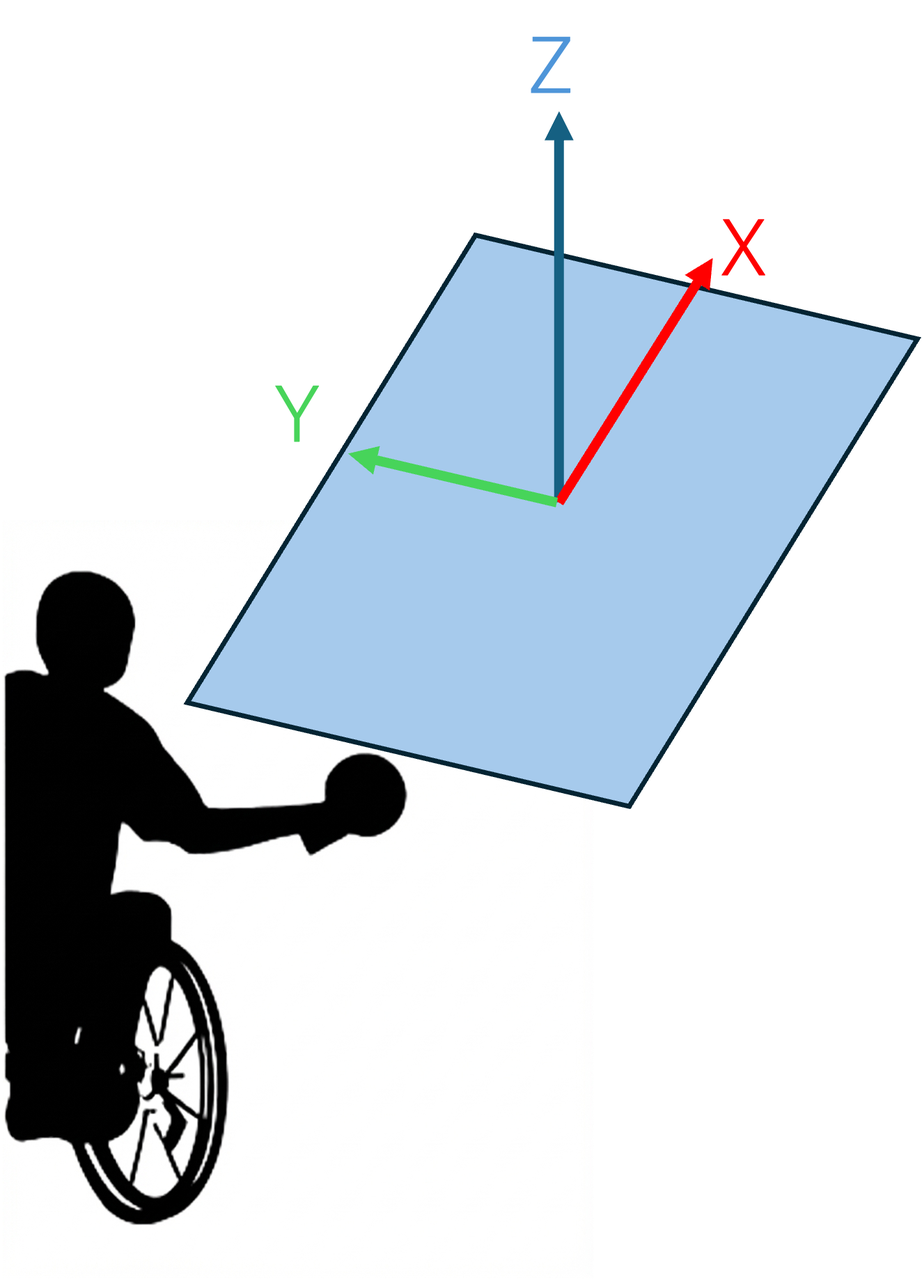
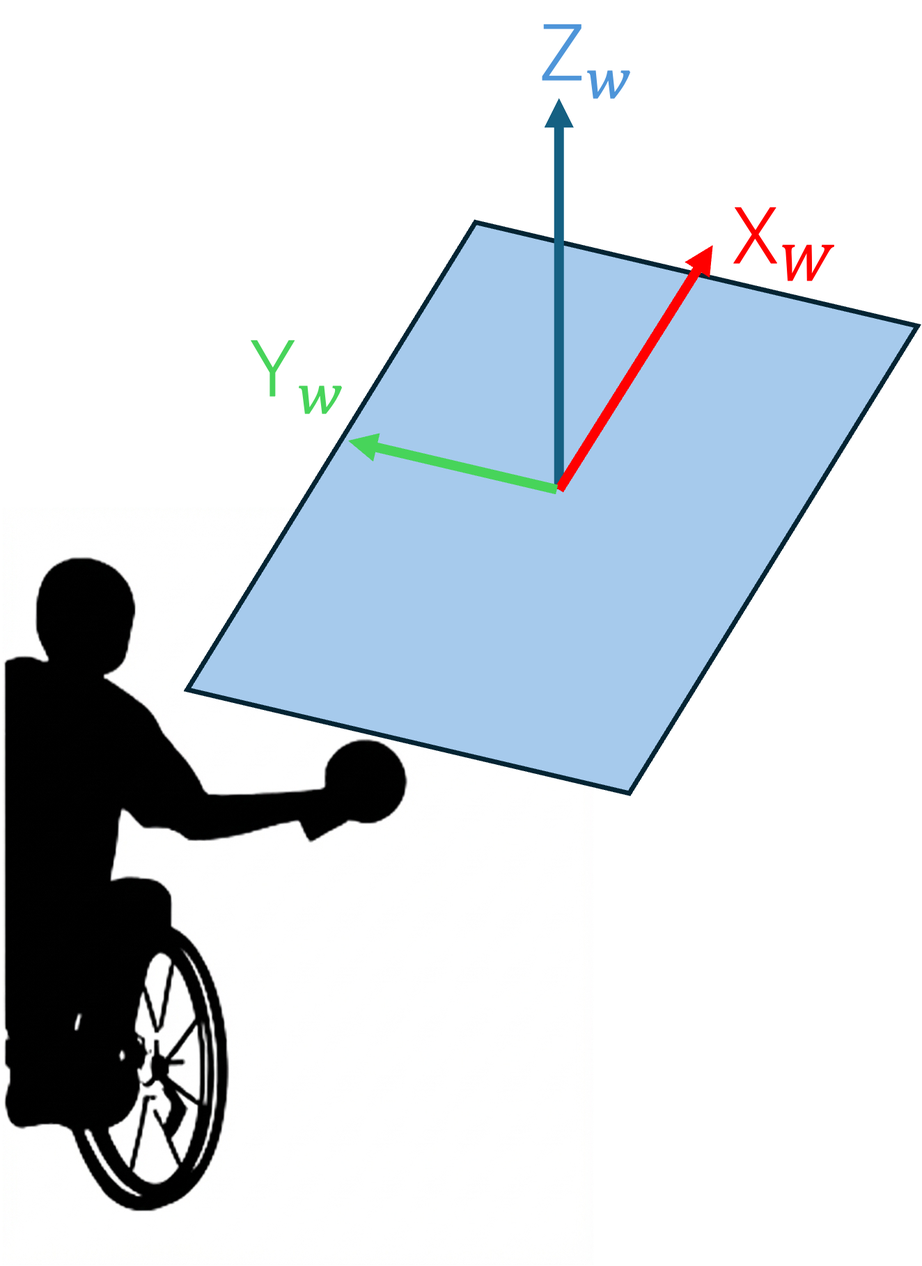
第3章手前

diff --git a/sections/chap2.tex b/sections/chap2.tex
@@ -15,13 +15,13 @@
 
 本章では，車椅子卓球選手の競技中の動作の測定と解析のアプローチについて述べる．
 
-\refsec{sec:approach}では，本研究のアプローチについて述べる．
+\refsec{sec:approach}では，決定論的モデルに基づいた本研究の理論的枠組みについて述べる．
 
-\refsec{sec:pmethod_model}では，本研究の実験概要について述べる．
+\refsec{sec:variable_definition}では，解析手法を適用するにあたり必要となる座標系および各変数の定義について述べる．
 
-\refsec{sec:analysis_method1}では，画像解析を用いた解析手法について述べる．
+\refsec{sec:analysis_process}では，画像解析および筋活動計測を用いた具体的な解析アルゴリズムについて述べる．
 
-\refsec{sec:analysis_method2}では，筋活動による解析手法について具体的に述べる．
+\refsec{sec:experiment}では，提案した手法を適用して実施した計測実験の概要について述べる．
 
 最後に\refsec{sec:pmethod_conclusion}では，本章のまとめを述べる．
 
@@ -37,9 +37,24 @@
 
 以上より，本研究では単なる動作観察では捉えきれない，パフォーマンスに直結する筋活動の時系列的な特徴を抽出し，客観的かつ説明可能な評価を行う．
 
+本研究では，個人の身体機能差が著しい車椅子卓球選手において，打球の正確性を決定づける要因を解明することを目指す．そのための理論的枠組みとして，Chowら\citeen{chowUseDeterministicModels2011}がスポーツバイオメカニクス研究において推奨している決定論的モデルを採用する．
+
+決定論的モデルとは，パフォーマンスの結果から遡り，それを力学的・物理的に決定づけるバイオメカニクス的要因を階層構造として分解および整理する手法である．Chowらは，パフォーマンス指標を恣意的に選択するのではなく，運動の結果とそれを構成する要因との間の理論的な結びつきを明確にすることの重要性を説いている．
+
+本研究においては，このモデルに基づき打球動作を以下の階層構造で捉える．モデルの最上位には，パフォーマンスの評価指標として，打球の正確性（打球の着弾点の目標からの誤差）を設定する．この正確性を物理的に決定づける直接的な要因は，インパクトにおけるラケットの終端姿勢（位置，速度，角度などの10変数）である．さらに，このラケット挙動を生成する要因として上肢や体幹の関節運動が存在し，それらの運動を駆動する根本的な要因として筋活動が最下層に位置づけられる．
+
+この階層構造に基づくデータを収集するため，図\ref{fig:exp_setup}に示す実験環境を構築した．本環境では，実際のラリー中における選手の身体動作（モーションキャプチャで計測）と筋活動（表面筋電図で計測），およびその結果としての打球の正確性（着弾位置計測）の同期計測を行う．ここで得られたデータを用い，以下の段階的なプロセスで解析を進める．
+
+第一段階として，最上位の打球精度と直下のラケット終端姿勢の関係性を解析する．具体的には，ラケット挙動を表現する10個の変数を入力とし，打球精度を分類または回帰する機械学習モデル（k-近傍法，サポートベクターマシン，ランダムフォレスト）を構築する．構築したモデルに対して Permutation Feature Importance（PFI）を適用することで，ラケットの挙動において精度の良し悪しを決定づける重要な変数を特定する．
+
+第二段階として，特定された重要なラケット変数を目的変数とし，その下層にある関節運動との関係性を解析する．ここでは，関節角度の時系列データを扱うために LSTM（Long Short Term Memory）や，各関節の特徴量を用いた回帰分析等を行い，ラケットの重要変数を生成するために支配的な関節運動を明らかにする．
+
+最終段階として，特定された関節運動と最下層の筋活動との関連を調査する．ここでは定性的な評価を含め，主要な動作局面における筋活動レベル（平均振幅等）を確認し，動作の駆動源としての筋の役割を考察する．
+
+以上により，本研究では決定論的モデルに基づく論理的な因果関係の枠組みの中で，結果から原因へと階層を掘り下げることで，パフォーマンスに直結する身体的要因を客観的かつ説明可能な形で特定する．
 \begin{figure}[t]
   \centering
-  \includegraphics[keepaspectratio, width=0.8\linewidth]{chap2/exp_setup.pdf}
+  \includegraphics[keepaspectratio, width=0.8\linewidth]{chap2/exp_setup.png}
   \caption{計測システムの構成}
   \label{fig:exp_setup}
 \end{figure}
@@ -47,96 +62,160 @@
 
 \clearpage
 
-\section{画像解析を用いた解析手法}
-\label{sec:analysis_method1}
-本節では，録画された動画像データからボールの3次元挙動を復元し，打球の正確性を定量的に評価するとともに，その傾向を可視化する一連のプロセスについて述べる．解析の全体フローは，1）手作業によるイベント区間の特定（アノテーション），2）ステレオ計測による3次元座標群の抽出，3）ターゲット精度の算出，4）精度の空間分布を可視化するショットマップの作成，の4段階から構成される．
+\section{解析対象変数の定義と計測手法}
+\label{sec:variable_definition}
+本節では，前節で述べた決定論的モデルに基づき、本解析で使用する変数の定義およびその計測手法について述べる．
+
+\subsection{座標系の定義}
+\label{subsec:coord_system}
+解析の基準となる座標系として，卓球台に固定された世界座標系と，ラケットに固定された局所座標系を定義した（図\ref{fig:spatial_coordinates}）．
+世界座標系は，卓球台の中心を原点 $O_W$ とし，実験参加者から見て進行方向（ネット方向）を $X_W$ 軸，左方向を $Y_W$ 軸，鉛直上向きを $Z_W$ 軸と定義した．
+また，ラケット局所座標系は，ラケットの重心位置を原点 $O_R$ とし，ラケット面の長軸方向（ラケット先端の方向）を $X_R$ 軸，面法線方向を $Y_R$ 軸，ラケット面の短軸方向を $Z_R$ 軸と定義した．
+
+\begin{figure}[t]
+  \centering
+  \includegraphics[keepaspectratio, width=1.0\linewidth]{chap2/spatial_coordinates.png}
+  \caption{世界座標の設定}
+  \label{fig:spatial_coordinates}
+\end{figure}
+
+
+\subsection{ラケット終端姿勢変数の定義}
+\label{subsec:racket_vars}
+打球精度を直接決定づける要因であるラケットの終端姿勢を定量的かつ多角的に評価するため，以下の10個の変数を定義した．
+これらは全てボールがラケットに接触した瞬間の値を用いる．
+
+\begin{enumerate}\item
+  \textbf{ラケット位置 ($Pos_X, Pos_Y, Pos_Z$)}：世界座標系におけるラケット重心の3次元座標．
+  \item \textbf{ラケット移動速度 ($Vel_{scalar}$)}：インパクト直前におけるラケット重心の移動速度の大きさ（スカラー量）．
+  \item \textbf{打ち出し角 ($Launch\_Ang_{Vert}, Launch\_Ang_{Horz}$)}：打球後のボール軌道の初期ベクトルがなす角度．水平面に対する角度を縦打ち出し角，進行方向に対する左右の角度を横打ち出し角とする．
+  \item \textbf{ラケット面角度 ($Face_{Vert}, Face_{Horz}$)}：ラケット面の法線ベクトルがなす角度．垂直方向の傾きを被せ角（$Face_{Vert}$），水平方向の向きを面の左右角（$Face_{Horz}$）とする．
+  \item \textbf{インパクト位置誤差 ($Diff_{Long}, Diff_{Short}$)}：ラケット局所座標系における，ラケット重心から見たボール接触点のズレ．長軸方向の距離を $Diff_{Long}$，短軸方向の距離を $Diff_{Short}$ と定義する．これにより，重心近くで捉えられたかを評価する．
+\end{enumerate}
+
+\subsection{関節運動変数の定義}
+\label{subsec:joint_vars}
+ラケットの終端姿勢を生成する身体的要因として，上肢および体幹の関節角度を定義した．
+本研究では，車椅子卓球における打球動作への寄与が大きい以下の関節運動に着目する．
+
+\begin{itemize}
+ \item \textbf{肘関節}：屈曲・伸展および回旋の2自由度．
+ \item \textbf{肩関節 (Shoulder)}：屈曲・伸展，外転・内転，内旋・外旋の3自由度．
+ \item \textbf{体幹 (Trunk)}：胸郭と骨盤の間の相対角度として算出される，屈曲・伸展，側屈，回旋の3自由度．
+\end{itemize}
+
+\subsection{画像解析による計測とデータ算出}
+\label{subsec:measurement_process}
+上述した変数の算出および打球精度の評価を行うため，以下の手順で計測およびデータ処理を行った．
+解析の全体フローは，1）手作業によるイベント区間の特定（アノテーション），2）ステレオ計測による3次元座標群の抽出，3）打球精度（着弾点の目標までの距離）の算出，4）精度の空間分布を可視化するショットマップの作成，の4段階から構成される．
 ボールの空間位置を特定するため，8台の高速度カメラを用いたステレオ計測法を適用した．
 
 \subsection{アノテーションと座標取得}
 \label{subsec:annotation}
 まず，各試行の録画データに対して手作業によるアノテーションを実施した．
 打球動作における重要局面であるラケットによるインパクトの瞬間（打点）および卓球台へのバウンドの瞬間（着弾点）に対応するフレーム番号を特定した．
-次に，特定された各フレームにおいて，左右のカメラ画像上のボール中心位置を目視にて特定し，その2次元画像座標 $(u, v)$ を記録した．
-これらの画像座標と，事前に実施したカメラキャリブレーションにより得られたカメラパラメータ（内部・外部パラメータ）を用いて，三角測量の原理に基づく3次元復元を行い，複数台のカメラによって撮影した画像から，対象空間におけるボールの3次元座標 $(x, y, z)$ を算出した．
 
+次に，特定された各フレームにおいて，左右のカメラ画像上のボール中心位置を目視にて特定し，その2次元画像座標 $(u, v)$ を記録した．
+これらの画像座標から3次元座標を算出するために，モーションキャプチャシステムの統合ソフトウェアであるQTM(Qualisys Track Manager)を用いてカメラキャリブレーションを実施した．
+QTMより出力された各カメラの内部パラメータ（焦点距離，主点座標，歪み係数）および外部パラメータ（世界座標系におけるカメラの位置・姿勢）を取得し，これらを基に世界座標系からカメラ座標系への変換を記述する回転行列および並進ベクトルを算出した．
+最後に，整備したこれらのパラメータを用いて三角測量の原理に基づく3次元復元を行い，複数台のカメラによって撮影した画像から，対象空間におけるボールの3次元座標 $(x, y, z)$ を算出した．
 
 
 \subsection{打球精度の定義と算出}
 \label{subsec:shotaccuracy}
-本研究における実験課題はクロス方向へのラリーであり，目標とする着弾点を卓球台の左端コーナー付近に設定した．
-打球の正確性を評価するため，着弾点の3次元座標を卓球台平面（$xy$平面）に投影し，目標の座標との平面距離を算出した．
 
-各試行 $i$ における着弾位置の水平座標を $(x_{land}^{(i)}, y_{land}^{(i)})$，目標とするターゲット位置の座標を $(x_{target}, y_{target})$ と定義する．
-このとき，打球の誤差距離（Error Distance）$D_{err}^{(i)}$ は，以下の式に示す $xy$ 平面上でのユークリッド距離として定義される．
+本研究では，打球位置の $x$ 座標が $-0.5\,\mathrm{m}$ 未満（卓球台の右側遠方）となる打球動作を1試行と定義する．
+実験課題はクロス方向へのラリーであり，対戦相手にとって返球が困難なコースとして，目標着弾点を卓球台の左端コーナー付近に設定した．
+
+打球の正確性を評価するため，着弾点の3次元座標を卓球台平面（$xy$平面）に投影し，目標の座標との平面距離を算出した．
+試行 $i$ における着弾位置の水平座標を $(x_{\mathrm{land}}^{i}, y_{\mathrm{land}}^{i})$，目標とするターゲット位置の座標を $(x_{\mathrm{target}}, y_{\mathrm{target}})$ と定義する．
+このとき，打球の誤差距離 $D_i$ は，以下の式に示す $xy$ 平面上でのユークリッド距離として定義される．
 
 \begin{equation}
-D_{err}^{(i)} = \sqrt{(x_{land}^{(i)} - x_{target})^2 + (y_{land}^{(i)} - y_{target})^2}
+D_i = \sqrt{(x_{\mathrm{land}}^{i} - x_{\mathrm{target}})^2 + (y_{\mathrm{land}}^{i} - y_{\mathrm{target}})^2}
 \end{equation}
 
-ここで，$D_{err}^{(i)}$ が $0$ に近いほど，目標に対して正確に着弾したことを意味し，値が大きいほどターゲットから逸脱した打球であることを示す．
-本解析では，この誤差距離 $D_{err}$ の値を，後述するショットマップの色付けおよび機械学習モデルの出力変数（回帰ターゲット）として使用した．
+ここで，$D_i$ が $0$ に近いほど，目標に対して正確に着弾したことを意味し，値が大きいほどターゲットから逸脱した打球であることを示す．
+本解析では，この誤差距離 $D$ の値を，後述するショットマップの色付けおよび機械学習モデルの出力変数として使用した．
 
-\subsection{ショットマップによる空間的傾向の可視化}
-\label{subsec:shotmap}
-算出された打球誤差と，打球位置の空間的な関係性を明らかにするため，詳細なショットマップを作成した．従来のショットマップは着弾位置をプロットするのが一般的であるが，本研究ではどの位置でボールを捉えた時に，高精度な打球が可能となるかという身体制御と結果の因果関係を検証するため，以下の手法を用いた．
-\begin{enumerate}\item
-  \textbf{プロット位置：} グラフ上の点の位置は，各試行におけるインパクト時のボール位置（打点）の3次元座標 $(x_{hit}, y_{hit}, z_{hit})$ に対応する．
-  \item \textbf{カラーマッピング：} 各点の色情報は，前項で算出した着弾誤差距離 $D_{err}$ に基づいて決定される．
+
+\subsection{打球精度およびショットマップの定義}
+\label{subsec:accuracy_def}
+本研究では，ラケットによるボールインパクトから卓球台への着弾までの一連の挙動を1試行と定義する．
+なお，本実験における具体的な解析対象試行の抽出条件については，\refsec{subsec:exp_task}にて詳細を述べる．
+
+打球の正確性を評価する指標として，各試行 $i$ における誤差距離 $D_i$ を定義する．
+試行 $i$ における卓球台への着弾位置の水平座標を $(x_{\mathrm{land}}^{i}, y_{\mathrm{land}}^{i})$，目標とするターゲット位置の座標を $(x_{\mathrm{target}}, y_{\mathrm{target}})$ としたとき，$D_i$ は以下のユークリッド距離で表される．
+\begin{equation}
+D_i = \sqrt{(x_{\mathrm{land}}^{i} - x_{\mathrm{target}})^2 + (y_{\mathrm{land}}^{i} - y_{\mathrm{target}})^2}
+\end{equation}
+ここで，$D_i$ が $0$ に近いほど，目標に対して正確に着弾したことを意味する．
+
+また，打点位置とこの打球精度 $D_i$ との関係性を空間的に表現したものを「ショットマップ」と定義する．ショットマップの構成要素は以下の通りである．
+
+\begin{enumerate}
+  \item \textbf{プロット位置：} グラフ上の点の位置は，各試行におけるインパクト時のボール位置の3次元座標 $(x_{\mathrm{hit}}, y_{\mathrm{hit}}, z_{\mathrm{hit}})$ に対応する．
+  \item \textbf{カラーマッピング：} 各点の色情報は，当該試行の着弾誤差距離 $D_i$ に基づいて決定される（寒色系：高精度，暖色系：低精度）．
 \end{enumerate}
-具体的には，誤差距離 $D_{err}$ が小さい（精度が高い）試行を青色や緑色などの寒色系で，誤差が大きい（精度が低い）試行を赤色などの暖色系で表現し，その中間を連続的なカラーグラデーションで表示した．これにより，実験参加者が空間上のどの領域（例：身体の近く，あるいは高い打点など）でインパクトした際に，ターゲットに近い有効打を放つことができたかを直感的に把握することを可能とした．
-
 
 \clearpage
 
-\section{筋活動の解析手法}
-\label{sec:analysis_method2}
-本節では，計測された生体信号から，打球精度に影響を与える要因を抽出するための時系列解析手法について述べる．
+\section{提案手法}
+\label{sec:analysis_process}
+本節では，前節で定義された変数を算出し，要因を特定するための具体的な計算処理および解析アルゴリズムについて述べる．
 
-\subsection{データの前処理}
-\label{subsec:preprocess}
-取得した表面筋電図（EMG）信号に対し，以下の信号処理を適用した．まず，生体信号に含まれるハムノイズおよび低周波のモーションアーチファクトを除去するため，40$\sim$400Hzのバンドパスフィルタを適用した．次に，筋活動の振幅レベルを評価するために整流処理を行い，その後，平滑化処理を施して包絡線を算出した ． 最後に，機械学習モデルへの入力として各チャンネル間のスケールを統一するため，各試行のデータに対して正規化処理を行い ，これを解析用データとした．
+\subsection{画像解析による3次元座標および精度の算出}
+\label{subsec:image_analysis}
+ボールおよび身体の運動を定量化するため，ステレオカメラを用いた3次元復元手法を適用した．
 
-\subsection{データセットの構築}
-\label{subsec:dataset}
-解析対象とする時間区間は，ボールインパクトの瞬間（$t=0$）を基準とし，スイング動作の開始前からインパクトまでの準備局面を含む区間とした．具体的には，インパクト前$1.0$秒から$0.0$秒までの時系列データを抽出した．
-入力データ $X$ は，前処理を行った多チャンネルのEMG時系列で0田を採用した．出力データ $Y$ には，前節で算出した打球誤差 $E_i$ （目標からの距離）を教師ラベルを付与した．
-これにより，筋活動パターンから打球の正確性を予測する回帰モデルの構築を行った．
+まず，各試行の録画データに対して手作業によるアノテーションを実施し，打点および着弾点に対応するフレームと，左右のカメラ画像上のボール中心位置 $(u, v)$ を特定した．
+3次元座標の算出には，モーションキャプチャシステム用ソフトウェアQTM (Qualisys Track Manager) から取得したカメラパラメータを用いた．
+具体的には，キャリブレーションにより得られた各カメラの内部パラメータおよび外部パラメータから回転行列を作成し，世界座標系とカメラ座標系の変換を定義した．これらのパラメータと画像座標を用いて三角測量の原理に基づく3次元復元を行い，対象空間におけるボールの3次元座標 $(x, y, z)$ を算出した．
 
-\subsection{LSTMモデルによる要因解析}
-打球動作のような一連の時系列データにおいては，ある瞬間の値だけでなく，時間的な変化のパターンが重要である．そこで本研究では，時系列データの学習に適し，長期的な依存関係を学習可能な再帰型ニューラルネットワーク（RNN）の一種である Long Short-Term Memory (LSTM) を採用した．
+算出された着弾座標およびターゲット座標から，\refsec{subsec:accuracy_def}で定義した式に基づき打球誤差 $D_i$ を算出した．
+さらに，算出された打点位置および誤差 $D_i$ を用いて前述の定義に従いショットマップを作成し，精度の空間的傾向を可視化した．
 
-構築したモデルは，入力層，LSTM層，全結合層，出力層から構成される．本モデルを用いて打球精度の予測学習を行い，高い予測精度が得られることを確認した上で，モデルの解釈性手法である Permutation Feature Importance (PFI) を適用した ． PFIは，入力特徴量の一部をランダムにシャッフルした際の予測精度の低下量から，その特徴量の重要度を定量化する手法である ．本解析では，これにより打球の正確性を決定づける重要な筋肉の部位およびその活動タイミング（時間帯）を定量的に算出し，パフォーマンスに寄与する身体制御メカニズムの特定を試みた．
+\subsection{筋活動データの信号処理}
+\label{subsec:signal_process}
+筋活動データに対しては，以下の前処理を行う．
+生体信号に含まれるノイズを除去するため，40$\sim$400Hzのバンドパスフィルタを適用し，続いて全波整流および平滑化処理（包絡線検波）を行う．
+最後に，個人や試行による振幅差を補正するため，各試行または最大随意収縮時の値を用いた正規化処理を行い，解析用データセットを作成する．
+
+\subsection{決定論的モデルに基づく要因特定プロセス}
+\label{subsec:ml_analysis}
+算出されたデータを用い，以下の手順で階層的に要因を特定する．
+
+\subsubsection{ラケット終端姿勢の重要変数特定}
+打球精度（$D$）を直接決定づけるラケット変数を特定するため，機械学習モデルを用いた回帰分析を行う．
+入力には2.3節で定義した10個のラケット変数を，出力には打球誤差 $D$ を用い，k-近傍法（KNN），サポートベクターマシン（SVM），ランダムフォレスト等のアルゴリズムによりモデルを構築する．
+学習済みモデルに対して Permutation Feature Importance (PFI) を適用し，予測精度への寄与度が大きい変数を重要変数として抽出する．
+
+\subsubsection{関節運動および筋活動の解析}
+Step 1で特定された重要なラケット変数を生成する要因として，関節運動の解析を行う．
+関節角度は時系列データであるため，Long Short Term Memory (LSTM) などの時系列モデルや，特徴量抽出による回帰分析を用い，ラケット挙動との関連性をモデル化する．
+最終的に，特定された関節運動に関与する筋群の活動レベルを定性的に評価し，動作メカニズムの考察を行う．
+
 \clearpage
 
 
 \section{実験概要}
-\label{sec:pmethod_model}
-本節では，提案手法の構築および検証のために実施した計測実験の詳細について述べる．
-本実験では，車椅子卓球選手の実際のラリー動作を対象に，身体動作，筋活動，およびボールの軌道情報を同期計測した．
-以下，\ref{subsec:exp_person}項では実験参加者の属性について，\ref{subsec:exp_env}項では使用した計測機器と環境について，\ref{subsec:exp_method}項では具体的な実験課題と手順についてそれぞれ記述する．
+\label{sec:experiment}
+本節では，前節で述べた解析手法を適用し，実際の車椅子卓球選手の打球動作を評価するために実施した計測実験の詳細について述べる．
 
 \subsection{実験参加者}
 \label{subsec:exp_person}
-本研究の実験参加者は，パラリンピック車椅子卓球競技クラス4に所属する男子選手1名（年齢：26歳，利き手：右）とした．この選手は2026年1月8日時点でクラス4の世界ランキング1位の選手である．
+本研究の実験参加者は，パラリンピック車椅子卓球競技クラス4に所属する男子選手1名（年齢：26歳，利き手：右）とした．
+この選手は2026年1月8日時点で同クラスの世界ランキング1位である．
+参加者は二分脊椎（第3腰髄レベル：L3）に起因する機能障害を有しており，座位バランスはある程度保持されるものの，下肢による身体固定や重心移動に制限がある．
+なお，本実験は東京大学倫理審査委員会の承認（承認番号：E2025ALS171）を得て実施された．
 
-実験参加者は，二分脊椎に起因する第3腰髄（L3）レベルの機能障害を有している．この障害レベルでは，座位バランスはある程度保持されるものの，下肢による強固な身体固定や重心移動が制限されるため，競技動作においても制限が生じてしまう．
-
-なお，実験に先立ち，実験参加者および実験協力者（コーチ）に対して本研究の目的，実験手順，および身体への負担や安全性について十分に説明を行い，書面による同意を得た．本研究は，東京大学倫理審査委員会の承認（承認番号：E2025ALS171）を得て実施された．
-
-\subsection{計測環境}
+\subsection{計測環境とシステム構成}
 \label{subsec:exp_env}
-本実験における計測システムの構成を図\ref{fig:exp_setup}に示している．図の通り本実験は，表面筋電計，モーションキャプチャカメラを用いた同時計測システムを構築し，車椅子卓球選手のラリー中の運動データを収集，解析する．
-身体動作およびボールの3次元位置計測には，光学式及び映像式モーションキャプチャカメラ（Qualisys Miqus3, Qualisys社）20台を用いた．サンプリング周波数は300Hzとした．反射マーカーは，卓球台および実験参加者の車椅子，ラケットに貼付した．
-
-筋活動の計測には，表面筋電計（Wave Infinity，Cometa社）を用いた．サンプリング周波数は2,000 Hzとした．フリーハンド側の筋活動がラリー中における車椅子操作や体幹のバランス保持が打球精度に重要な役割を果たしていると考えられるため，ラケットを保持するラケットハンド側に加えて両側を計測対象とした.
-対象とした筋群は図\ref{fig:muscle}に示す通りである：体幹部（大胸筋，腹直筋，腹斜筋，僧帽筋上部繊維，僧帽筋中部線維，広背筋，脊柱起立筋），上肢（三角筋前部線維，三角筋後部線維，上腕二頭筋，上腕三頭筋，手根屈筋，手根伸筋，腕橈骨筋）など左右計28部位とした．
-
-空間座標系は，右手系直交座標系を用いた．図\ref{fig:spatial_coordinates}のように卓球台の中央を原点$(0, 0, 0)$とし，卓球台の長軸方向をX軸（選手視点でのネット方向を正），短軸方向をY軸（左側を正），鉛直上向をZ軸と定義した．
-
-なお，動作計測システムと筋電計測システムは同期させてデータを取得し，時間的整合性を担保した．
-
-
-
+本実験における計測システムの構成を図\ref{fig:exp_setup}に示す．
+身体動作およびボールの計測には，光学式モーションキャプチャカメラ（Qualisys Miqus3, Qualisys社，20台）を用いた．サンプリング周波数は300Hzとし，反射マーカーをラケットおよび卓球台の四隅に貼付した．
+筋活動の計測には，無線式表面筋電計（Wave Infinity，Cometa社）を用い，サンプリング周波数は2,000Hzとした．
+計測部位は図\ref{fig:muscle}に示す体幹・上肢の主要筋群（左右計28部位）とした．
+両システムは同期信号により時間を整合させて記録した．
 
 \begin{figure}[t]
   \centering
@@ -145,29 +224,28 @@ D_{err}^{(i)} = \sqrt{(x_{land}^{(i)} - x_{target})^2 + (y_{land}^{(i)} - y_{tar
   \label{fig:muscle}
 \end{figure}
 
-begin{figure}[t]
-  \centering
-  \includegraphics[keepaspectratio, width=1.0\linewidth]{chap2/spatial_coordinates.png}
-  \caption{世界座標の設定}
-  \label{fig:spatial_coordinates}
-\end{figure}
+\subsection{実験課題とデータセット}
+\label{subsec:exp_task}
+実験課題はコーチとのフォアハンドラリーとした．
+実戦に近い状況を再現するため，コーチは参加者の近位（右側）と遠位へ交互に返球を行った．
+参加者はこれらを対戦相手にとって返球が困難なコースであるターゲット（左端コーナー）へ，できるだけ早くかつ正確に打ち返すよう指示された．
+本研究では，特に身体制御の難易度が高い近位での打球後の遠位での打球を解析対象とするため，打球位置の $y$ 座標が $-0.5\,\mathrm{m}$ 未満（参加者の遠位）となる打球動作を1試行と定義し，条件を満たす60試行を抽出して解析用データセットとした．
 
-\subsection{実験方法}
-\label{subsec:exp_method}
-実験課題は，コーチとの継続的なフォアハンドラリーとした．実際の試合において要求される打球位置の変化への対応能力を評価するため，コーチはラリーの中で，実験参加者の体に対し近位と遠位の2箇所へ交互に返球を行った．実験参加者には，返球されたボールを対角線上の卓球台コーナー（左端）に向けて，できるだけ速く，かつ正確に打ち返すよう指示した．
+
+
 \clearpage
 
 
 \section{おわりに}
 \label{sec:pmethod_conclusion}
 
-本章では，車椅子卓球選手の打球精度決定要因を解明するための実験および解析手法について述べた．
+本章では，車椅子卓球選手の打球精度決定要因を解明するための解析手法および実験概要について述べた．
 
-\refsec{sec:pmethod_model}では，実験概要として，対象となる実験参加者の身体的特性（第3腰髄損傷），計測システムの構成，および近位・遠位への交互打球課題という実験プロトコルの詳細について述べた．
+\refsec{sec:approach}および\refsec{sec:variable_definition}では，決定論的モデルに基づく理論的枠組みと，解析に必要な変数および座標系の定義について述べた．
 
-\refsec{sec:analysis_method1}では，ステレオ計測を用いたボールの3次元軌道復元手法について述べた．特に，打球の正確性を評価するための指標として着弾誤差距離を定義し，打点位置と精度の関係を可視化する独自のショットマップ作成手法について示した．
+\refsec{sec:analysis_process}では，具体的な解析アルゴリズムについて説明した．特に，ステレオ計測を用いた3次元復元とショットマップによる精度可視化手法，および機械学習（PFIやLSTM）を用いた打球精度の要因特定プロセスについて詳述した．
 
-\refsec{sec:analysis_method2}では，表面筋電図を用いた時系列解析手法について述べた．打球動作の準備局面における筋活動パターンを捉えるためのLSTMモデルの構築，およびPermutation Feature Importanceを用いた身体的要因（重要筋・タイミング）の抽出手法について具体的に説明した．
+\refsec{sec:experiment}では，これらの手法を適用した実験の概要について述べた．世界ランキング1位のクラス4選手を対象とし，近位・遠位への交互打球課題において，身体運動・ボール軌道・筋活動を同期計測する実験系を構築した．
 
 次章では，これらの手法を用いて得られた実際の解析結果を示し，車椅子卓球選手のパフォーマンスを支える運動制御メカニズムについて考察する．
 
